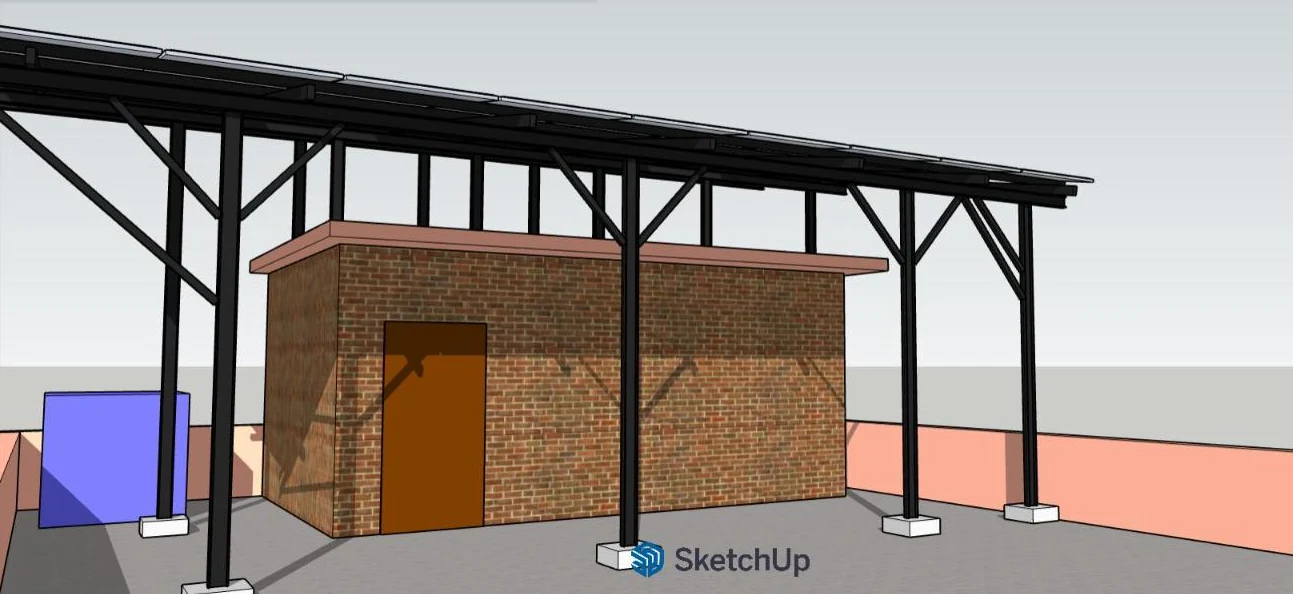
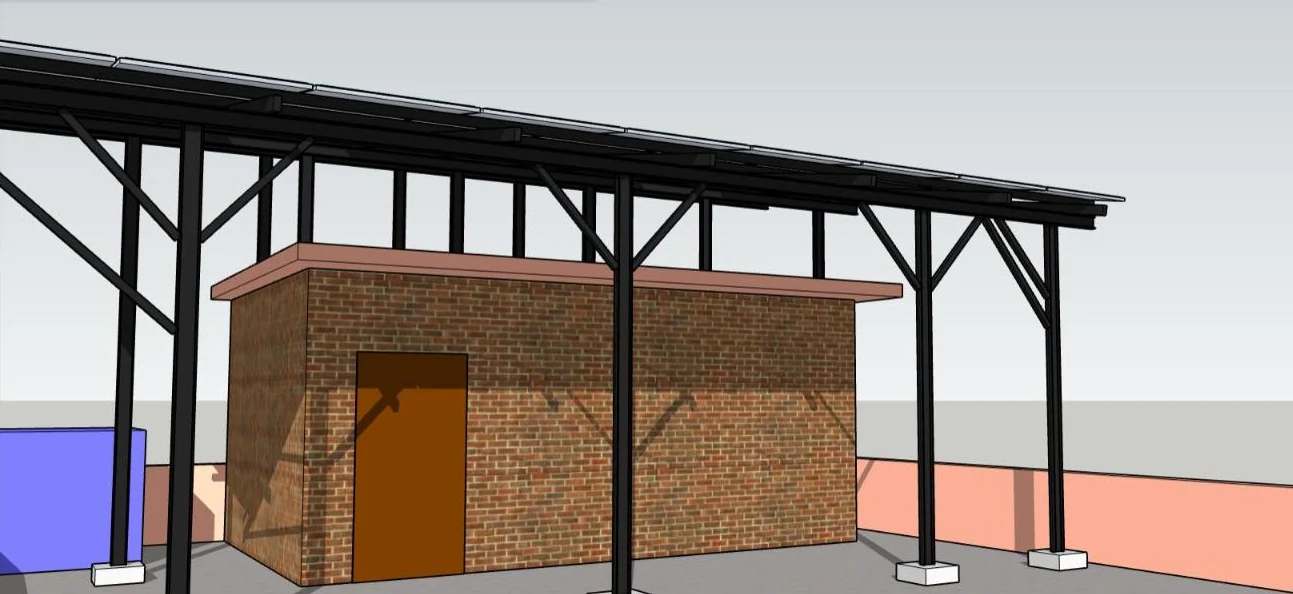
Elevated canopy: roof resized to a 10 marla plot (35 x 65 ft), new model views

diff --git a/src/lib/demo.ts b/src/lib/demo.ts
@@ -115,7 +115,7 @@ export const features: Feature[] = [
     project: {
       title: "Elevated rooftop canopy over a stair room",
       intro: [
-        "A 15.375 kWp on-grid system on a house roof: 25 Canadian Solar 615 W N-type bifacial panels on a Fox 15 kW on-grid inverter, carried on a raised mild steel shed over the rooftop stair room and the open roof in front of it.",
+        "A 15.375 kWp on-grid system on the roof of a 10 marla house: 25 Canadian Solar 615 W N-type bifacial panels on a Fox 15 kW on-grid inverter, carried on a raised mild steel shed over the rooftop stair room and the open roof in front of it.",
         "The shed is built from 2.5 x 5 in I-beam columns and girders with U-channel rafters and purlins, anchored to concrete bases on block pads. The front columns are about 11 ft tall, the legs on the stair room slab about 4 ft 8 in, and knee braces tie the front columns to the girder.",
         "The SketchUp model follows my original design, the bill of materials and the photos of the built frame: three rows of nine panels with two left out over the stair room, on a frame tilted about 10 degrees.",
       ],
